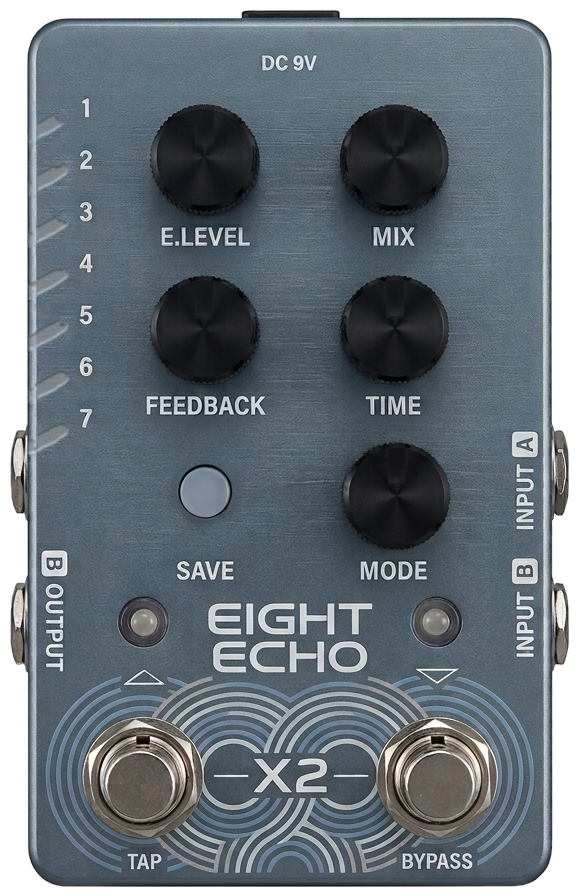
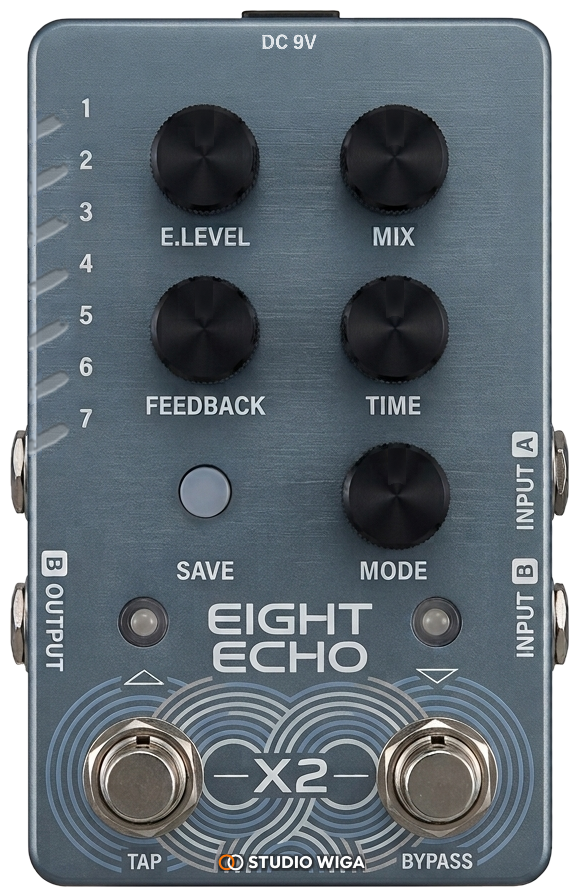
Add files via upload

Changed region(s): [[0.3737, 0.9375, 0.654, 0.9688], [0.436, 0.0312, 0.5606, 0.0938]]

diff --git a/PluginEditor.cpp b/PluginEditor.cpp
@@ -16,7 +16,7 @@ PedalView::PedalView (EightEchoProcessor& p) : proc (p)
     // reperes des potards, lentilles allumees (diffusion de lumiere calculee sur l'image)
     bg      = ImageCache::getFromMemory (BinaryData::background_png, BinaryData::background_pngSize);
     ledsOn  = ImageCache::getFromMemory (BinaryData::leds_on_png, BinaryData::leds_on_pngSize);
-    logo    = ImageCache::getFromMemory (BinaryData::logo_png, BinaryData::logo_pngSize);
+    x2On    = ImageCache::getFromMemory (BinaryData::x2_on_png, BinaryData::x2_on_pngSize);
     lensIce = ImageCache::getFromMemory (BinaryData::lens_left_ice_png, BinaryData::lens_left_ice_pngSize);
     lensRed = ImageCache::getFromMemory (BinaryData::lens_right_red_png, BinaryData::lens_right_red_pngSize);
     lensGreen  = ImageCache::getFromMemory (BinaryData::lens_right_green_png, BinaryData::lens_right_green_pngSize);
@@ -151,7 +151,7 @@ void PedalView::mouseDown (const MouseEvent& e)
     if (int k = knobAt (p); k >= 0)
     {
         dragKnob = k; dragStartY = p.y; dragStartVal = knobs[(size_t) k].value;
-        dragStartIndex = roundToInt (knobs[(size_t) k].value * (wiga::kNumModes - 1));
+        dragStartIndex = roundToInt (knobs[(size_t) k].value);
         knobs[(size_t) k].att->beginGesture();
     }
 }
@@ -163,7 +163,7 @@ void PedalView::mouseDrag (const MouseEvent& e)
     const float dy = dragStartY - e.position.y;
     if (k.isMode)
     {
-        const int idx = jlimit (0, wiga::kNumModes - 1, dragStartIndex + (int) std::floor (dy / 20.0f + 0.5f));
+        const int idx = jlimit (0, wiga::kNumModes - 1, dragStartIndex + (int) std::floor (dy / 18.0f + 0.5f));
         k.att->setValueAsPartOfGesture ((float) idx);
     }
     else
@@ -205,7 +205,7 @@ void PedalView::mouseWheelMove (const MouseEvent& e, const MouseWheelDetails& w)
         auto& kn = knobs[(size_t) k];
         auto* par = proc.apvts.getParameter (kn.id);
         if (kn.isMode)
-            kn.att->setValueAsCompleteGesture ((float) jlimit (0, wiga::kNumModes - 1, roundToInt (kn.value * 10) + (w.deltaY > 0 ? 1 : -1)));
+            kn.att->setValueAsCompleteGesture ((float) jlimit (0, wiga::kNumModes - 1, roundToInt (kn.value) + (w.deltaY > 0 ? 1 : -1)));
         else
             kn.att->setValueAsCompleteGesture (par->convertFrom0to1 (jlimit (0.0f, 1.0f, par->getValue() + w.deltaY * 0.08f)));
     }
@@ -236,7 +236,7 @@ void PedalView::drawKnob (Graphics& g, const Knob& k)
     // le potard (moletage, reflet conique, ombre) est celui du visuel, fixe : l'eclairage ne tourne pas.
     // Seul le repere blanc, decoupe sur l'image, tourne autour de l'axe du chapeau.
     float angle;
-    if (k.isMode) angle = modeAngle (roundToInt (k.value * (wiga::kNumModes - 1)));
+    if (k.isMode) angle = modeAngle (jlimit (0, wiga::kNumModes - 1, roundToInt (k.value)));   // crante sur chaque mode
     else angle = degreesToRadians (-135.0f + 270.0f * k.value);
     const size_t idx = (size_t) (&k - knobs.data());
     const auto& img = pointers[jmin (idx, pointers.size() - 1)];
@@ -301,6 +301,7 @@ String PedalView::statusLine() const
     if (proc.twistAmount.load() > 0.05f) t << " TWIST";
     if (proc.glitching.load()) t << " GLT";
     if (proc.warpAmount.load() > 0.05f) t << " WARP";
+    if (proc.looperState.load() == 2 || proc.looperState.load() == 3) t << " +LOOP";   // boucle qui tourne sous l'effet
     return t;
 }
 
@@ -310,11 +311,11 @@ void PedalView::paint (Graphics& g)
 
     // ligne d'etat sous "DC 9V"
     g.setColour (kSilk.withAlpha (0.88f));
-    g.setFont (FontOptions (Font::getDefaultMonospacedFontName(), 14.0f, Font::bold));
-    g.drawText (statusLine(), Rectangle<float> (70, 76, 438, 18), Justification::centred);
+    g.setFont (FontOptions (Font::getDefaultMonospacedFontName(), 17.5f, Font::bold));
+    g.drawFittedText (statusLine(), Rectangle<int> (64, 52, 450, 26), Justification::centred, 1, 0.85f);
 
     // etiquettes du selecteur de mode (comme la serigraphie DD-8)
-    const int modeIdx = roundToInt (knobs[4].value * (wiga::kNumModes - 1));
+    const int modeIdx = jlimit (0, wiga::kNumModes - 1, roundToInt (knobs[4].value));
     g.setFont (FontOptions (11.5f, Font::bold));
     for (int i = 0; i < wiga::kNumModes; ++i)
     {
@@ -363,13 +364,8 @@ void PedalView::paint (Graphics& g)
         drawLens (g, false, img, 1.0f);
     }
 
-    // X2 (temps double) : halo quand actif
-    if (longOn)
-    {
-        for (int k = 4; k >= 1; --k) { g.setColour (kIce.withAlpha (0.07f)); g.fillEllipse (cX2.x - 26 - 4 * k, cX2.y - 22 - 3 * k, (26 + 4 * k) * 2, (22 + 3 * k) * 2); }
-        g.setColour (kIce); g.setFont (FontOptions (40.0f, Font::bold));
-        g.drawText ("X2", Rectangle<float> (cX2.x - 30, cX2.y - 22, 60, 44), Justification::centred);
-    }
+    // X2 (temps double) : la serigraphie X2 s'illumine (meme forme, meme taille)
+    if (longOn) g.drawImageAt (x2On, 220, 727);
 
     // footswitches enfonces
     auto pressFs = [&g] (Point<float> c)
@@ -381,11 +377,8 @@ void PedalView::paint (Graphics& g)
     if (pressed == BYPASSFS) pressFs (cBypass);
 
     // Studio Wiga entre les deux footswitchs, en bas
-    // logo Studio Wiga entre les deux footswitchs, en bas
-    {
-        const float w = 150.0f, h = w * (float) logo.getHeight() / (float) logo.getWidth();
-        g.drawImage (logo, Rectangle<float> (290.0f - w * 0.5f, 862.0f - h * 0.5f, w, h), RectanglePlacement::centred);
-    }
+    // logo Studio Wiga : integre a la plaque dans background.png (toujours fixe)
+
 }
 
 // =============================================================================

diff --git a/DelayEngine.h b/DelayEngine.h
@@ -221,6 +221,19 @@ struct Looper
         }
     }
     void stop() { if (state == RECORDING) { len = std::max (pos, 1); } if (len > 0) { state = STOPPED; pos = 0; } else state = EMPTY; }
+    // lecture seule (un autre mode d'effet est selectionne) : la boucle continue de tourner
+    // sans etre touchee par l'effet ni par ce que l'on joue par-dessus
+    void playOnly (float& outL, float& outR)
+    {
+        outL = outR = 0;
+        if (state == RECORDING) { len = std::max (pos, 1); pos = 0; state = PLAYING; }
+        if (state == OVERDUB) state = PLAYING;
+        if (state != PLAYING || len <= 0) return;
+        outL = L[(size_t) pos]; outR = R[(size_t) pos];
+        if (++pos >= len) pos = 0;
+    }
+    bool isRunning() const { return state == PLAYING || state == OVERDUB || state == RECORDING; }
+
     void process (float inL, float inR, float& outL, float& outR)
     {
         outL = outR = 0;
@@ -256,6 +269,7 @@ struct EngineParams
     bool  longMode = false;
     bool  dryKill = false;
     float mix = 0.5f;            // MIX : a midi = son direct + effet pleins (comme la DD-8)
+    float loopLevel = 0.5f;      // volume de la boucle memorise (E.LEVEL regle en mode LOOP)
     int   stereo = STEREO_INDEPENDENT;
     bool  effectOn = true;
     bool  carryover = true;
@@ -426,8 +440,11 @@ public:
             if (p.mode == REVERSE && p.level > 0.985f) dryGain = 0.0f;
             dryGainSm += (dryGain - dryGainSm) * gateCoef;
 
-            outL[i] = dryL * dryGainSm + wetL;
-            outR[i] = dryR * dryGainSm + wetR;
+            // boucle du looper ajoutee APRES l'effet : elle ne passe jamais dans le delay
+            float lpL, lpR; looper.playOnly (lpL, lpR);
+            const float llv = levelGain (p.loopLevel);
+            outL[i] = dryL * dryGainSm + wetL + lpL * llv;
+            outR[i] = dryR * dryGainSm + wetR + lpR * llv;
         }
     }
 

diff --git a/PluginProcessor.cpp b/PluginProcessor.cpp
@@ -293,6 +293,8 @@ void EightEchoProcessor::processBlock (juce::AudioBuffer<float>& buffer, juce::M
     EngineParams ep;
     ep.mode = mode; ep.level = level; ep.feedback = fb; ep.timeKnob = time; ep.delayMs = ms;
     ep.longMode = longMode; ep.dryKill = p ("drykill")->load() > 0.5f; ep.mix = p ("mix")->load();
+    if (mode == LOOP) loopLevel = level;            // E.LEVEL en LOOP = volume de boucle, memorise
+    ep.loopLevel = loopLevel;
     ep.stereo = (int) p ("stereo")->load();
     ep.effectOn = p ("on")->load() > 0.5f; ep.carryover = p ("carryover")->load() > 0.5f;
     ep.holdFx = fsHoldFx; ep.twist = twistP && mode != LOOP;

diff --git a/PluginEditor.h b/PluginEditor.h
@@ -36,7 +36,7 @@ private:
     };
 
     EightEchoProcessor& proc;
-    juce::Image bg, logo, ledsOn, lensIce, lensRed, lensGreen, lensOrange;
+    juce::Image bg, x2On, ledsOn, lensIce, lensRed, lensGreen, lensOrange;
     std::array<juce::Image, 5> pointers;
     std::vector<Knob> knobs;
     std::unique_ptr<juce::ParameterAttachment> longAtt;

diff --git a/PluginProcessor.h b/PluginProcessor.h
@@ -73,6 +73,7 @@ private:
     int currentProgram = 0;
     std::array<juce::ValueTree, kNumSlots> slots;
     int currentSlot = 0;
+    float loopLevel = 0.5f;
     void initSlots();
 
     // footswitch

diff --git a/README.md b/README.md
@@ -93,3 +93,10 @@ Looper : Looper
 
 ## Version 1.3.4
 - Lumiere autour des LED bleue et CHECK : halo rond qui s eteint en douceur (plus de bord carre).
+
+## Version 1.4.0
+- Logo Studio Wiga integre a la plaque (fixe, ne clignote plus quand on appuie sur un footswitch), detoure en gris-noir pour mieux ressortir.
+- Potard MODE : cranté exactement sur chacun des 11 modes inscrits (le repere pointait a cote auparavant).
+- X2 : c'est la serigraphie X2 elle-meme qui s'illumine (meme forme, meme taille).
+- Looper : une boucle enregistree continue de tourner quand on choisit un autre mode ; on joue par-dessus avec cet effet, la boucle reste seche (elle ne passe jamais dans le delay). Son volume est celui regle avec E.LEVEL en mode LOOP. Pour l'arreter : revenir sur LOOP (double appui / maintien 2 s pour effacer). La ligne d'etat affiche « +LOOP » quand une boucle tourne sous l'effet.
+- Ligne d'etat agrandie ; DC 9V remonte pour lui laisser la place.
